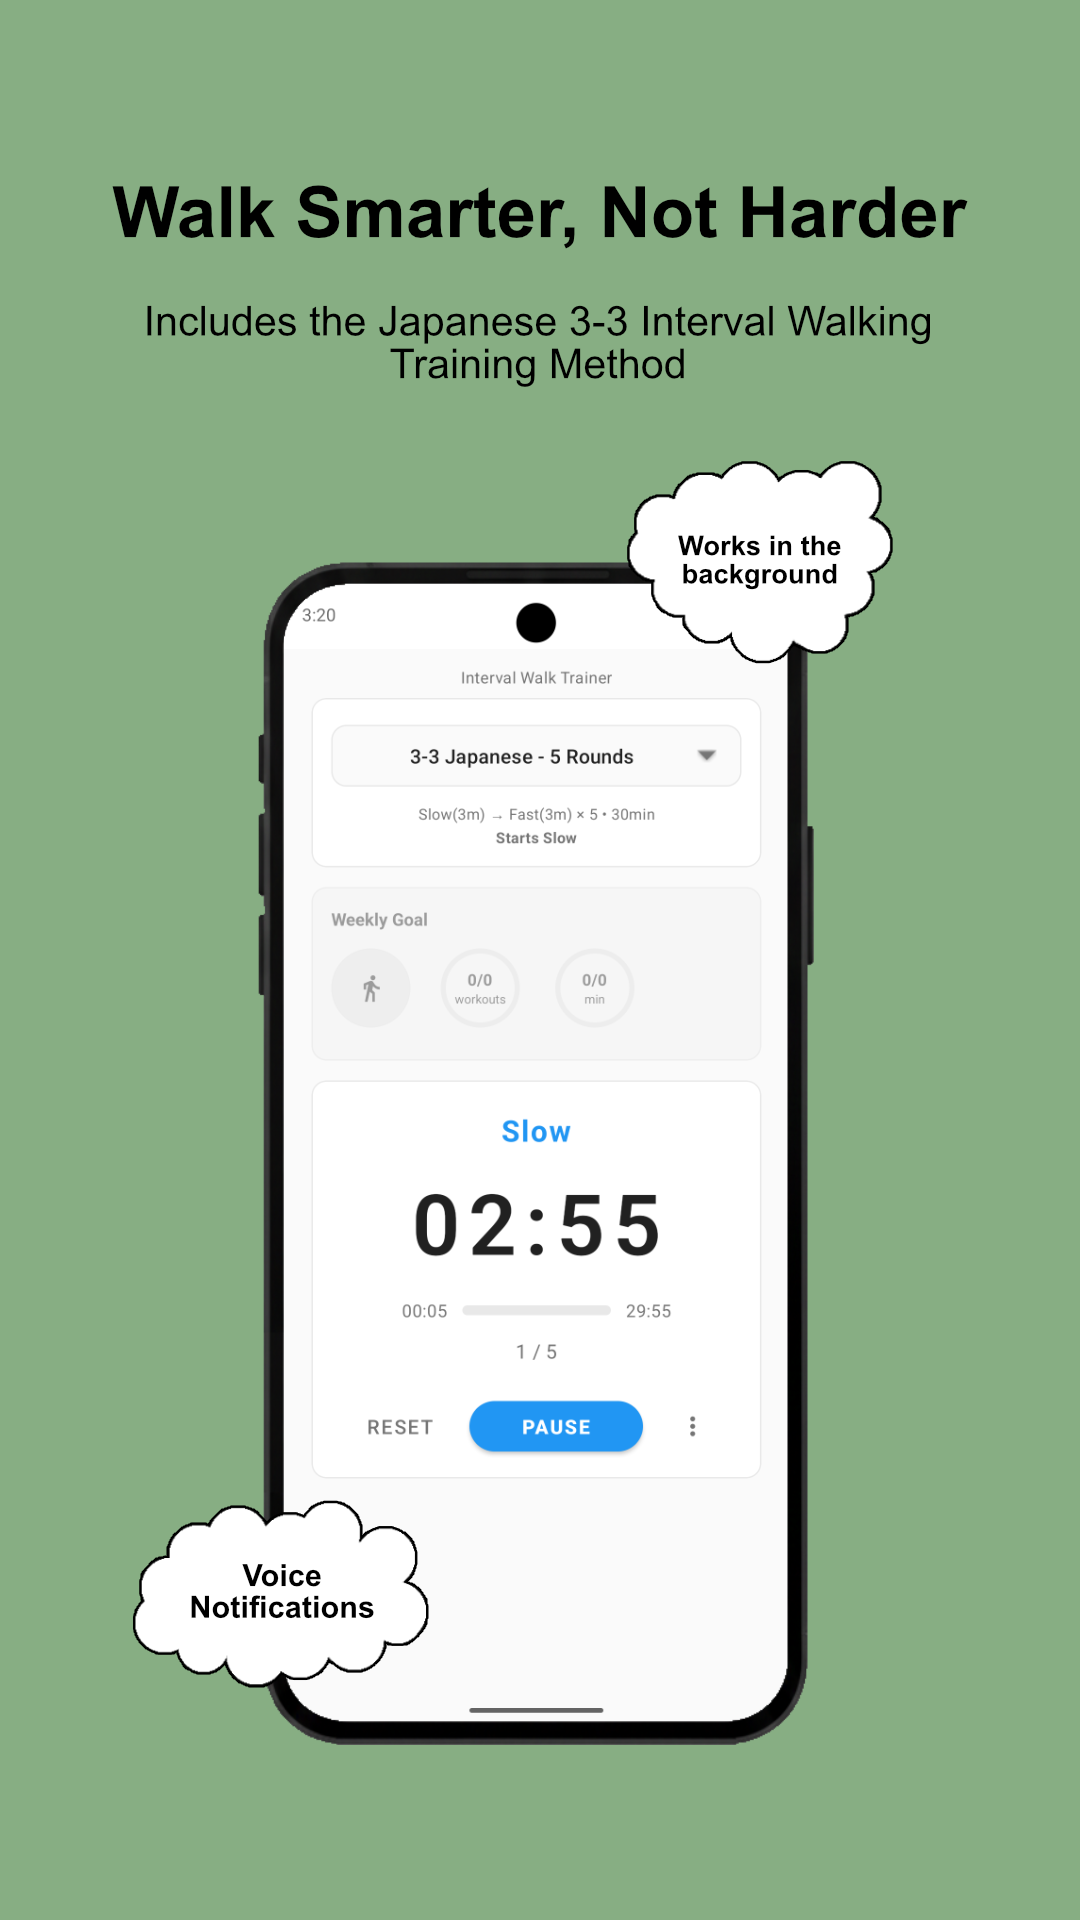
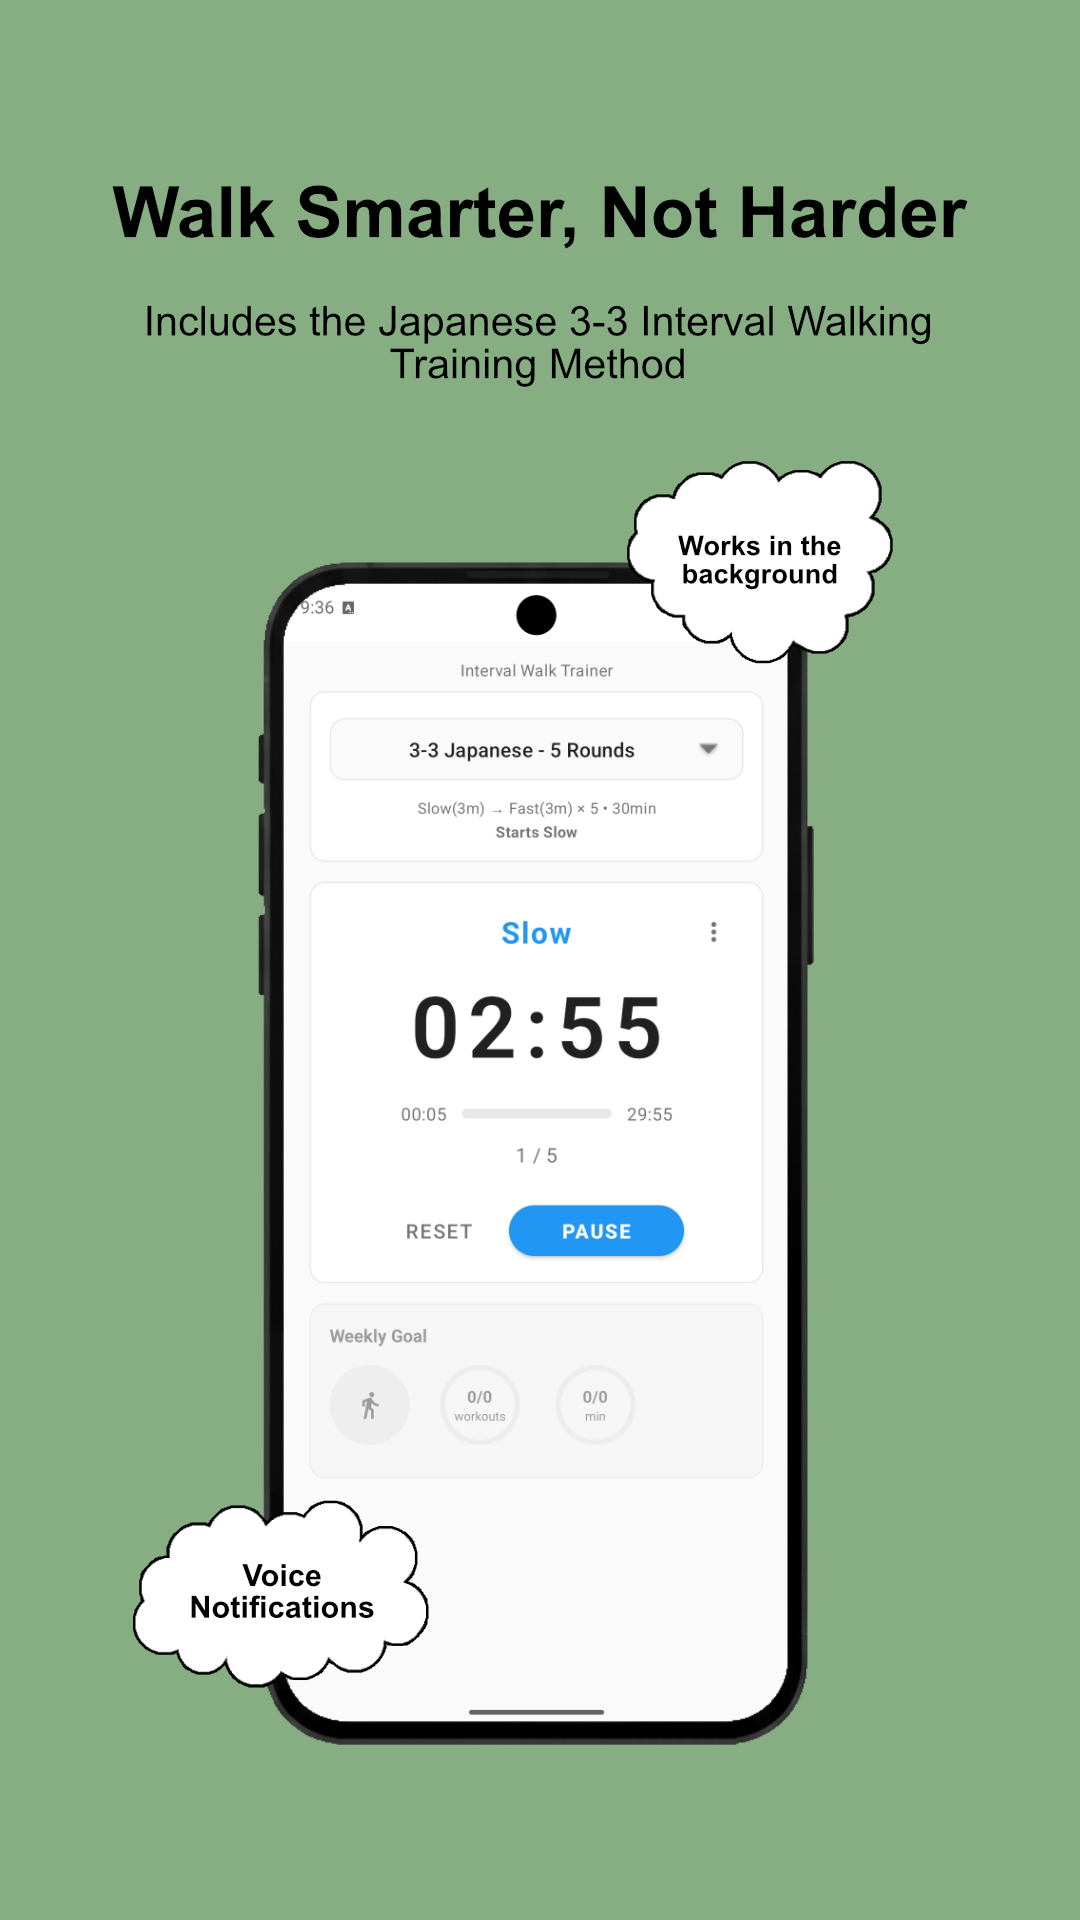
feat(release): v1.3.7
Promote the timer to hero placement on the home screen and relocate the overflow menu to the timer card corner.

diff --git a/app/src/main/java/com/oceanofmaya/intervalwalktrainer/MainActivity.kt b/app/src/main/java/com/oceanofmaya/intervalwalktrainer/MainActivity.kt
@@ -687,7 +687,7 @@ open class MainActivity : AppCompatActivity() {
     }
 
     private fun setupOverflowMenuButton() {
-        homeActions.overflowMenuButton.setOnClickListener { view ->
+        binding.homeSessionPanel.overflowMenuButton.setOnClickListener { view ->
             hapticSelection(view)
             showOverflowBottomSheet()
         }

diff --git a/CHANGELOG.md b/CHANGELOG.md
@@ -2,6 +2,14 @@
 
 ## Version 1
 
+### 1.3.7 - 2026-05-24
+
+#### UI/UX Improvements
+
+- **Home screen layout:** Moved the session timer card directly under workout setup so the timer occupies prime screen space; the Weekly Goal insight card moves to the bottom.
+- **Overflow menu:** Moved the overflow menu (⋮) to the top-right corner of the timer card, separate from the Reset and Start/Pause controls.
+- Store screenshots and promo images updated to reflect the new home screen layout.
+
 ### 1.3.6 - 2026-05-23
 
 #### UI/UX Improvements
